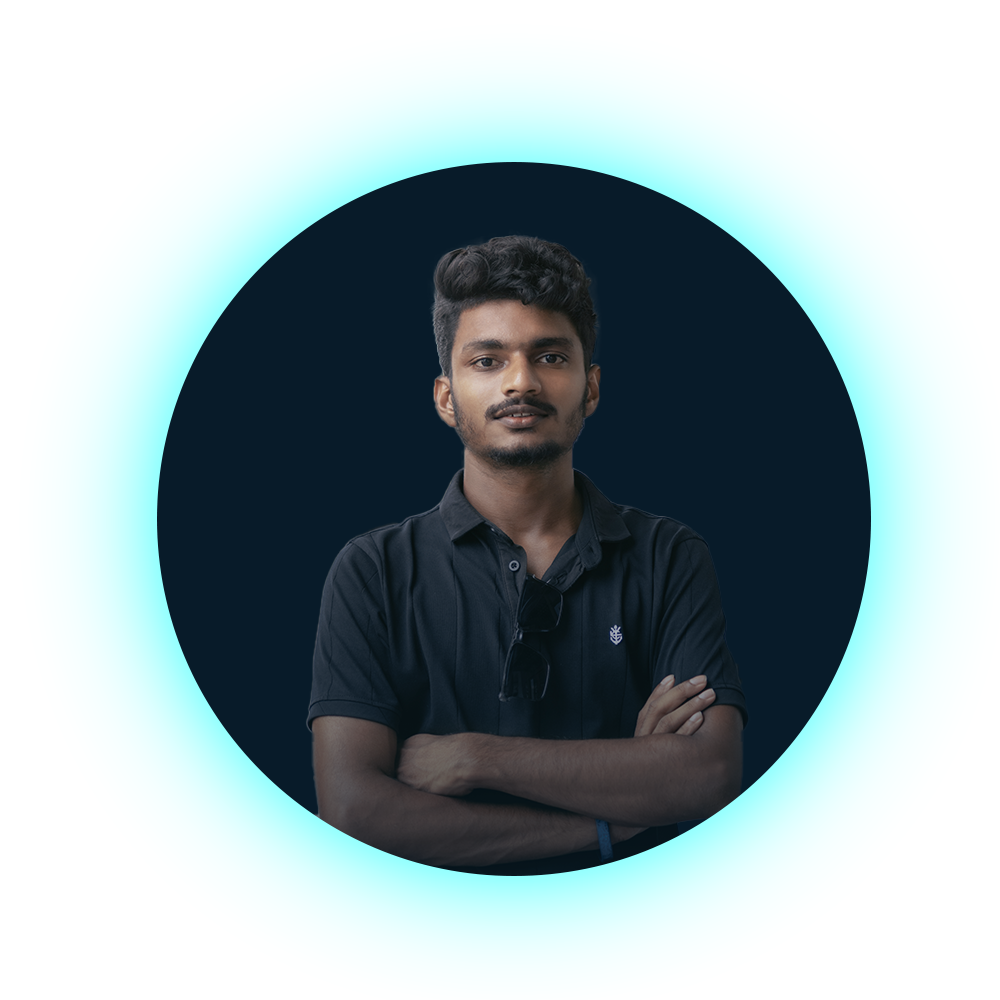
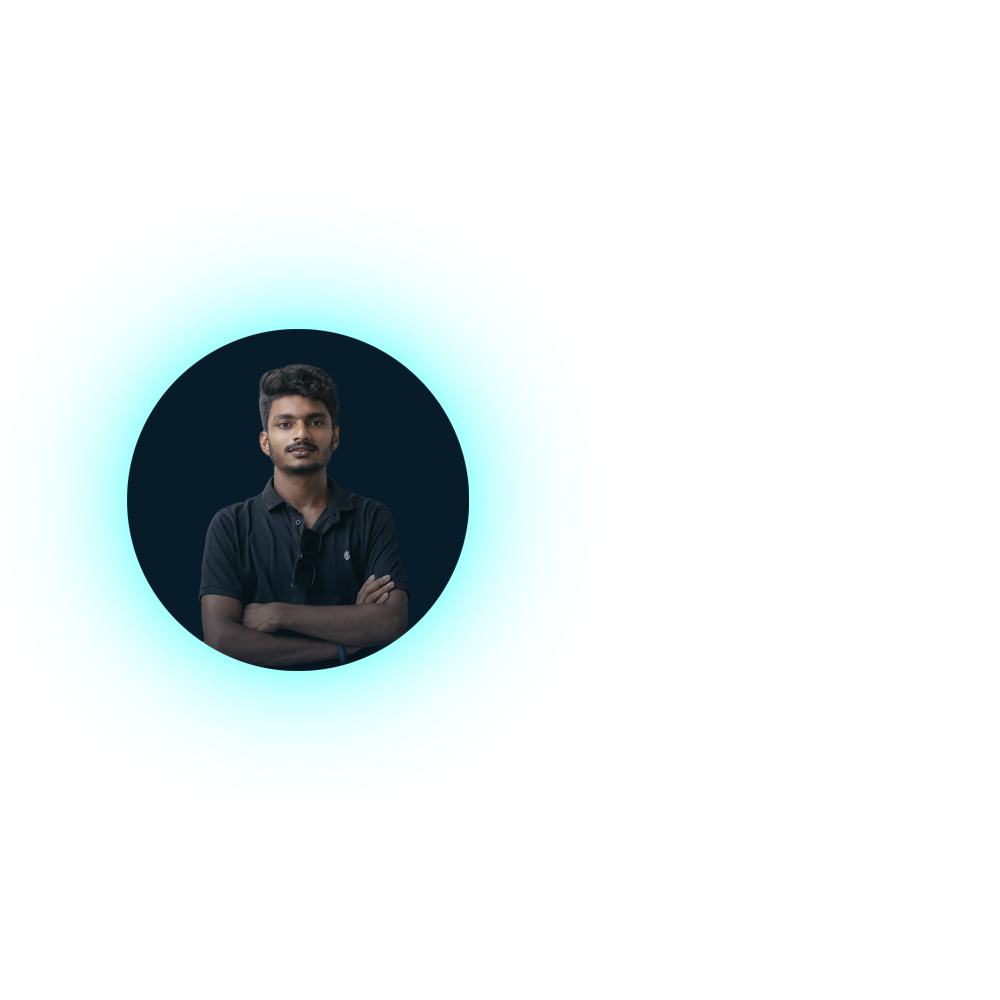
updated

diff --git a/index.html b/index.html
@@ -46,6 +46,19 @@
             <div class="about-img">
                 <img src="about-1.png">
             </div>
+            <div class="about-text">
+                <h2>About<span>Me</span></h2>
+                <h4>Web Designer</h4>
+                <p>Welcome! I'm a passionate undergraduate student at the University of Moratuwa, pursuing a Bachelor’s degree in Information and Communication Technology. My journey in IT has allowed me to specialize in web design and development, where I craft seamless, user-friendly digital experiences.<br>
+
+                    Beyond the tech world, I am also an avid photographer and videographer. Capturing moments and turning them into visually compelling stories is what I love. With expertise in video editing, I bring creative visions to life, blending art and technology in every frame.<br>
+                    
+                    Whether you need a stunning website, dynamic video content, or captivating photography, I am here to deliver innovative solutions tailored to your needs.
+                    
+                    Let’s create something extraordinary together!</p>
+
+                    <a href="#" class="btn-box">More About Me</a>
+            </div>
         </section>
 
 

diff --git a/style.css b/style.css
@@ -171,6 +171,47 @@ body
     0 0 25px cyan, 0 0 50px cyan,
     0 0 100px cyan, 0 0 200px cyan 
 }
+.about{
+    display: grid;
+    grid-template-columns: repeat(2, 1fr);
+    align-items: center;
+    gap: 1.5rem;  
+}
+.about-img img{
+    padding-bottom: 20%;
+    max-width: 630px;
+    height: auto;
+    width: 100%;
+    border-radius: 8px;
+}
+.about-text h2{
+    font-size: 60px;
+}
+.about-text h2 span{
+    color: #0ef;
+}
+
+
+
+
+
+
+
+
+
+
+
+
+
+
+
+
+
+
+
+
+
+
 
 
 @keyframes slideRight {
